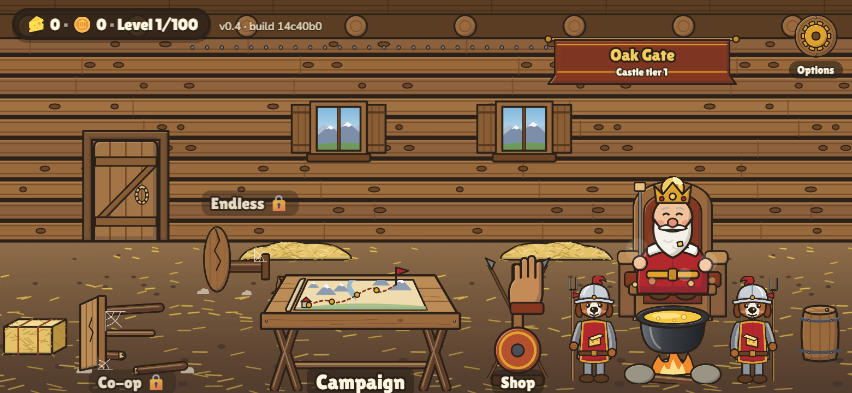
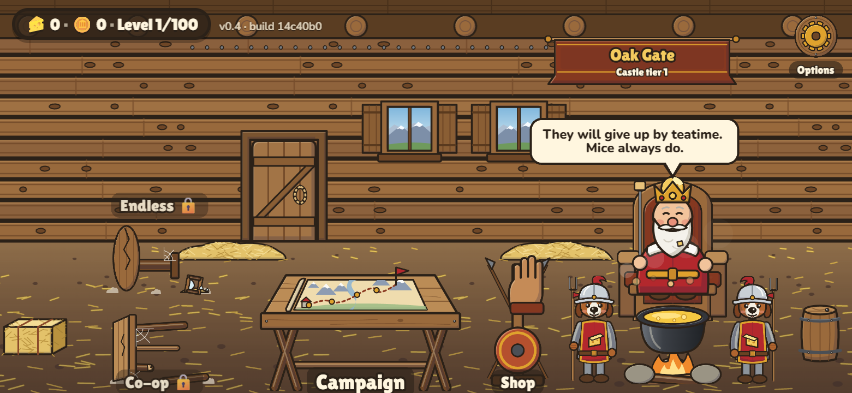
Give the endless and co-op tables their own free place with the sign at the table; keep the lobby chip in step with the profile
Both tables stand on the left, the endless table at the back and the
co-op table in front, fully on screen on the laptop; the door moves
beside the campaign table. Cheese, gold and level over the hall follow
the profile at once.

Changed region(s): [[0.0915, 0.2443, 0.885, 1.0]]

diff --git a/src/config/lobby.ts b/src/config/lobby.ts
@@ -69,15 +69,15 @@ export interface StationDef {
 }
 
 /**
- * Left to right: the door back out to the gate (Continue), the co-op table in front of it, the
- * endless table further back, the campaign table in the middle (the biggest), the shop right beside
- * it, then the King with his guards at the cauldron. The cog for the options sits in the top right
+ * Left: the endless table at the back and the co-op table in front of it, each with its sign right
+ * at the table. Then the door back out to the gate (Continue) in the back wall, the campaign table
+ * in the middle (the biggest), the shop right beside it, then the King with his guards at the cauldron. The cog for the options sits in the top right
  * corner of whatever the screen shows.
  */
 export const STATIONS: readonly StationDef[] = [
-  { id: 'continueLevel', label: 'Continue', art: '', x: 250, y: 318, r: 100, lx: 250, ly: 150, size: 32 },
-  { id: 'coop', label: 'Co-op', art: 'coopTable', tiered: true, brokenArt: 'coopTableBroken', scale: 0.9, depth: 6, x: 262, y: 604, r: 104, lx: 262, ly: 700 },
-  { id: 'play', label: 'Endless', art: 'endlessTable', tiered: true, brokenArt: 'endlessTableBroken', scale: 0.8, depth: 4, x: 478, y: 468, r: 92, lx: 478, ly: 372 },
+  { id: 'continueLevel', label: 'Continue', art: '', x: 540, y: 318, r: 100, lx: 540, ly: 150, size: 32 },
+  { id: 'play', label: 'Endless', art: 'endlessTable', tiered: true, brokenArt: 'endlessTableBroken', scale: 0.8, depth: 4, x: 312, y: 466, r: 85, lx: 312, ly: 376 },
+  { id: 'coop', label: 'Co-op', art: 'coopTable', tiered: true, brokenArt: 'coopTableBroken', scale: 0.8, depth: 6, x: 312, y: 632, r: 85, lx: 312, ly: 700 },
   { id: 'campaign', label: 'Campaign', art: 'mapTable', tiered: true, scale: 1.05, depth: 5, x: 680, y: 580, r: 150, lx: 680, ly: 700, size: 38 },
   { id: 'armoury', label: 'Shop', art: 'armourStand', scale: 0.95, depth: 6, x: 968, y: 584, r: 110, lx: 968, ly: 700 },
   { id: 'options', label: 'Options', art: 'cogPlaque', scale: 0.62, depth: 8, x: 66, y: 66, r: 82, lx: 66, ly: 128, size: 20, corner: true },
@@ -96,7 +96,7 @@ export const KING_GROUP = {
 /** The banner above the King with the castle's name and tier. */
 export const NAME_BANNER = { x: 1196, y: 112, scale: 0.86 };
 /** The door out to the gate (bottom centre on the floor line) and the two windows of the back wall. */
-export const HALL_PIECES = { door: { x: 250, y: 442 }, windows: [{ x: 640, y: 236 }, { x: 980, y: 236 }] };
+export const HALL_PIECES = { door: { x: 540, y: 442 }, windows: [{ x: 770, y: 236 }, { x: 970, y: 236 }] };
 
 /** Pegs in one row high on the back wall where every unlocked weapon hangs, in the order of the weapon table. */
 export const WEAPON_PEGS: readonly { x: number; y: number }[] = Array.from({ length: 25 }, (_, i) => ({ x: 372 + i * 27, y: 104 }));
@@ -107,11 +107,11 @@ export const WEAPON_SIZE = 26;
 const SPOT = {
   farL: { x: 84, y: 610 },
   farR: { x: 1522, y: 610 },
-  wallA: { x: 440, y: 240 },
-  wallB: { x: 810, y: 292 },
+  wallA: { x: 330, y: 236 },
+  wallB: { x: 870, y: 292 },
   wallC: { x: 1520, y: 250 },
   wallD: { x: 84, y: 250 },
-  footA: { x: 560, y: 452 },
+  footA: { x: 440, y: 452 },
   footB: { x: 1040, y: 452 },
 } as const;
 
@@ -149,16 +149,16 @@ export const HALL_LOOK: readonly HallLook[] = [
     at('banner', 'wallA'), at('banner', 'wallB', { flipX: true }), at('banner', 'wallC'), at('banner', 'wallD'), at('trophyShield', 'footB', { scale: 0.7, depth: 2 })
   ] },
   { name: 'Gilded Keep', throne: 'throneGold', pennants: true, decor: [
-    hang('chandelier', 470), hang('chandelier', 820), at('banner', 'wallA'), at('trophyShield', 'wallB'), at('candelabra', 'farL', { depth: 3 }), at('candelabra', 'farR', { depth: 3 }),
+    hang('chandelier', 320), hang('chandelier', 870), at('banner', 'wallA'), at('trophyShield', 'wallB'), at('candelabra', 'farL', { depth: 3 }), at('candelabra', 'farR', { depth: 3 }),
     at('goldPile', 'footA', { depth: 2, scale: 0.8 }), at('cheeseStack', 'footB', { depth: 2, scale: 0.8 }),
   ] },
   { name: 'Runic Fortress', throne: 'throneGold', pennants: false, decor: [
-    hang('chandelier', 470), hang('chandelier', 820), at('stainedBanner', 'wallA', { scale: 0.9 }), at('stainedBanner', 'wallB', { scale: 0.9 }),
+    hang('chandelier', 320), hang('chandelier', 870), at('stainedBanner', 'wallA', { scale: 0.9 }), at('stainedBanner', 'wallB', { scale: 0.9 }),
     at('runeStone', 'farL', { depth: 3 }), at('runeStone', 'farR', { depth: 3, flipX: true }), at('goldPile', 'footA', { depth: 2 }), at('cheeseStack', 'footB', { depth: 2 }),
     at('stainedBanner', 'wallC', { scale: 0.9 }), at('stainedBanner', 'wallD', { scale: 0.9 }),
   ] },
   { name: 'Alpine Citadel', throne: 'throneGold', pennants: true, decor: [
-    hang('chandelier', 470), hang('chandelier', 820), at('stainedBanner', 'wallA', { scale: 0.9 }), at('goldenForks', 'wallB', { scale: 0.8 }),
+    hang('chandelier', 320), hang('chandelier', 870), at('stainedBanner', 'wallA', { scale: 0.9 }), at('goldenForks', 'wallB', { scale: 0.8 }),
     at('cheeseChest', 'farL', { depth: 3, scale: 0.8 }), at('cheeseChest', 'farR', { depth: 3, scale: 0.8, flipX: true }), at('goldPile', 'footA', { depth: 2 }), at('cheeseStack', 'footB', { depth: 2 }),
     at('stainedBanner', 'wallC', { scale: 0.9 }), at('stainedBanner', 'wallD', { scale: 0.9 }),
   ] },

diff --git a/src/ui/lobby/lobby.ts b/src/ui/lobby/lobby.ts
@@ -16,7 +16,7 @@ import { linesFor, pickLine, STATIONS, type StationId } from '../../render/lobby
 import { LobbyScene, type LobbySpot, type LobbyState } from '../../render/lobby/lobbyScene';
 import type { GameScene } from '../../render/scene';
 import type { PendingRun } from '../screens/context';
-import { pendingWave } from '../screens/main';
+import { pendingWave, refreshLobbyHud } from '../screens/main';
 import { htmlMenuWanted, OVER_LOBBY } from './mode';
 
 /** What the lobby needs from the app. */
@@ -47,7 +47,7 @@ export class Lobby {
   private lineIn = FIRST_LINE;
   private lastLine = '';
 
-  constructor(private host: LobbyHost, _root: HTMLElement) {
+  constructor(private host: LobbyHost, private readonly root: HTMLElement) {
     // A tap anywhere during the camera move skips it.
     window.addEventListener('pointerdown', () => { if (this.moving) this.skip(); }, true);
   }
@@ -92,6 +92,8 @@ export class Lobby {
   }
 
   private step(dt: number) {
+    // The chip over the hall follows the profile at once (a purchase, a cheat, a won level).
+    if (this.host.screen === 'main') refreshLobbyHud(this.root, this.host.profile, this.host.world);
     const before = this.k;
     this.k = stepLobby(this.k, this.inLobby, dt);
     if (this.k !== before) this.apply();

diff --git a/src/ui/screens/main.ts b/src/ui/screens/main.ts
@@ -10,6 +10,7 @@ import { bannerText } from '../../render/lobby/layout';
 import { esc } from '../html';
 import { htmlMenuWanted } from '../lobby/mode';
 import { VERSION_LABEL } from '../version';
+import type { Profile } from '../../profile';
 import type { PendingRun } from './context';
 import type { Screen } from './screen';
 
@@ -17,6 +18,14 @@ import type { Screen } from './screen';
 export const ENDLESS_LOCKED = `Endless opens once you win level ${TABLE_UNLOCK_LEVEL.endless}.`;
 /** Why co-op is still closed. */
 export const COOP_LOCKED = `Co-op opens once you win level ${TABLE_UNLOCK_LEVEL.coop}.`;
+
+/** Brings the chip over the hall (cheese, gold, next level) in line with the profile, without drawing the screen again. */
+export function refreshLobbyHud(root: ParentNode, p: Profile, world: string) {
+  const set = (id: string, text: string) => { const el = root.querySelector(`#${id}`); if (el && el.textContent !== text) el.textContent = text; };
+  set('cheeseTotal', String(p.data.wallet.cheese));
+  set('lobbyGold', p.data.wallet.gold.toLocaleString('en-US'));
+  set('levelNow', String(CAMPAIGN.nextLevel(p, world)));
+}
 
 /** The wave an interrupted level continues at. */
 export function pendingWave(p: PendingRun): number {
